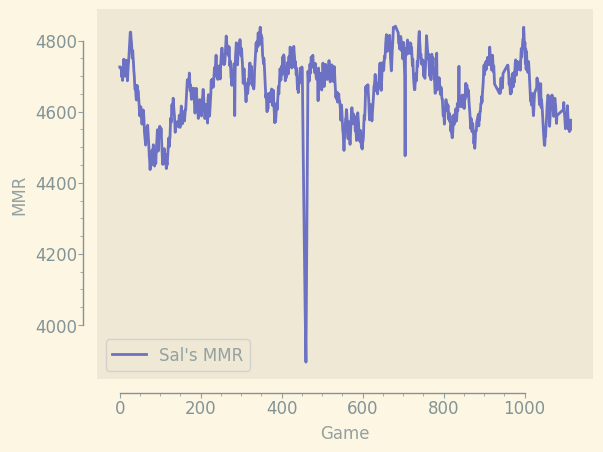
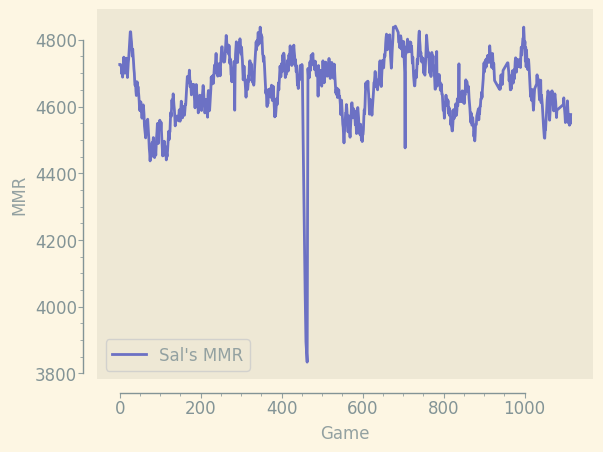
running on push

diff --git a/docs/index.md b/docs/index.md
@@ -18,7 +18,7 @@ layout: home
   <tbody>
     <tr>
       <td>Matches Played</td>
-      <td>1118</td>
+      <td>1119</td>
     </tr>
     <tr>
       <td>MMR Gained</td>
@@ -26,7 +26,7 @@ layout: home
     </tr>
     <tr>
       <td>MMR lost</td>
-      <td>11257</td>
+      <td>11288</td>
     </tr>
     <tr>
       <td>Max MMR</td>
@@ -34,7 +34,7 @@ layout: home
     </tr>
     <tr>
       <td>Min MMR</td>
-      <td>3895</td>
+      <td>3834</td>
     </tr>
     <tr>
       <td>Longest Win Streak</td>
@@ -115,7 +115,7 @@ layout: home
 | Race    |   Wins |   Losses |   Total |   Win Rate (%) |   MMR Gained |   MMR Lost |
 |:--------|-------:|---------:|--------:|---------------:|-------------:|-----------:|
 | Protoss |    198 |      251 |     449 |        44.098  |         3527 |       4576 |
-| Terran  |    116 |      158 |     274 |        42.3358 |         2918 |       2250 |
+| Terran  |    117 |      158 |     275 |        42.5455 |         2984 |       2250 |
 | Zerg    |    231 |      163 |     394 |        58.6294 |         3538 |       3724 |
 
 ![Games by Race](./assets/gm_hist.png)
